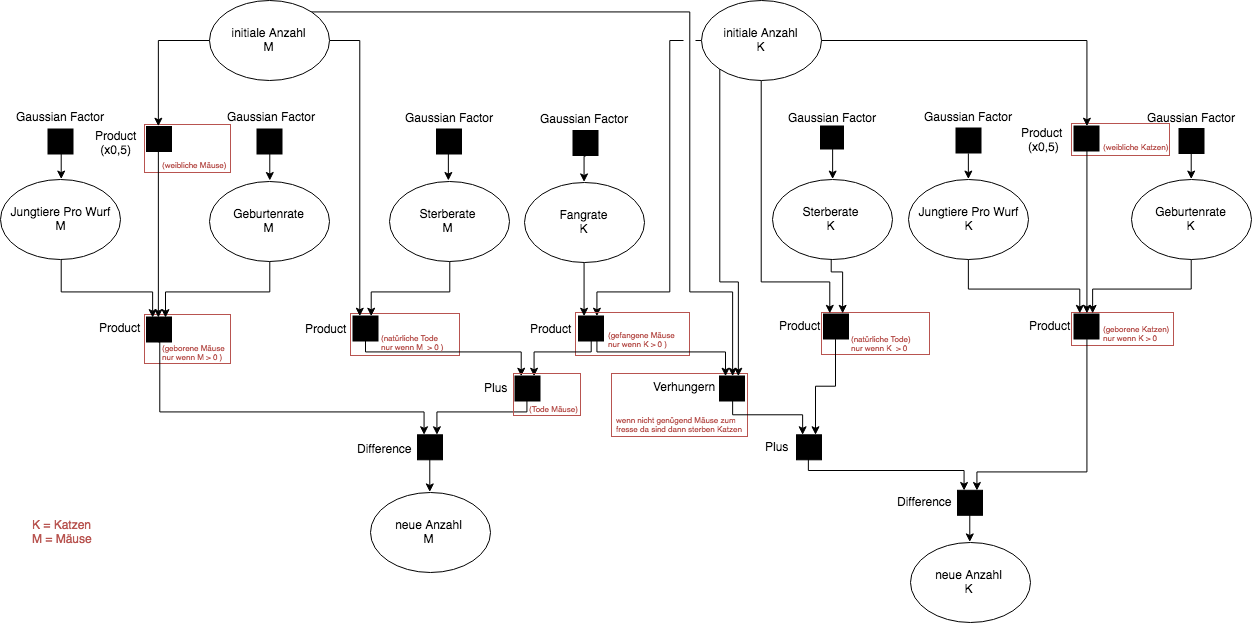
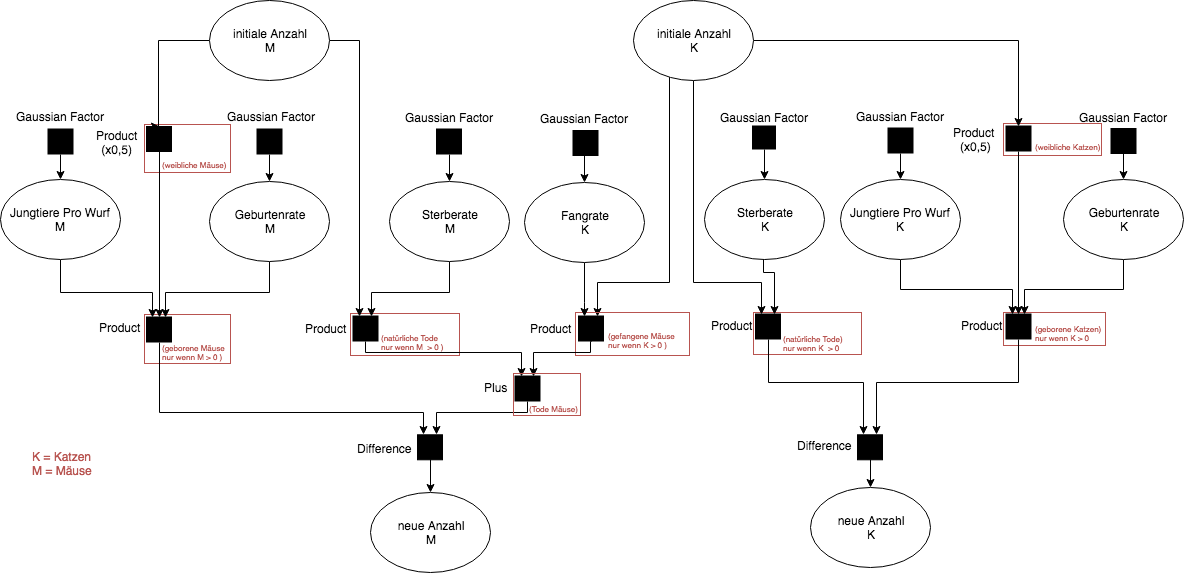
remove starving cats from model

diff --git a/urban_garden_mouse_cats/RunCatAndMouseModel.cs b/urban_garden_mouse_cats/RunCatAndMouseModel.cs
@@ -12,7 +12,7 @@ namespace catandmouse
         {
             // Cat();
             // Mouse();
-            //CatsAndMice();
+            // CatsAndMice();
             ContiniousView();
         }
 
@@ -52,26 +52,17 @@ namespace catandmouse
                 new Gaussian(0.0007305936073, 0.0000000225),
                 2
             );
-            CatModel.CatModelData CatSpecificPriors = new CatModel.CatModelData(
-                new Gaussian(13.5, 30.25),
-                new Gaussian(3.5, 2.25)
-            );
+            Gaussian Catchrate = new Gaussian(13.5, 30.25);
 
             CatModel Cat = new CatModel(new InferenceEngine());
             Cat.CreateModel();
-            Cat.SetModelData(CatPriors, CatSpecificPriors);
+            Cat.SetModelData(CatPriors, Catchrate);
 
             Gaussian CatchableMouse = Cat.InferCatchableMouse();
             Console.WriteLine(
                 "Catchable Mouse Mean: {0:f10}, Standard Deviation: {1:f10}",
                 CatchableMouse.GetMean(),
                 Math.Sqrt(CatchableMouse.GetVariance())
-            );
-            Gaussian FoodNeeds = Cat.InferFoodNeeds();
-            Console.WriteLine(
-                "Cat FoodNeeds Mouse Mean: {0:f10}, Standard Deviation: {1:f10}",
-                FoodNeeds.GetMean(),
-                Math.Sqrt(FoodNeeds.GetVariance())
             );
         }
 
@@ -89,24 +80,19 @@ namespace catandmouse
                 new Gaussian(0.0007305936073, 0.0000000225),
                 10
             );
-            CatModel.CatModelData CatSpecificPriors = new CatModel.CatModelData(
-                new Gaussian(13.5, 30.25),
-                new Gaussian(3.5, 2.25)
-            );
+            Gaussian Catchrate = new Gaussian(13.5, 30.25);
             CatAndMouse Model = new CatAndMouse();
 
             Model.CreateModel();
             Model.SetModelData(
                 MousePriors,
                 CatPriors,
-                CatSpecificPriors
+                Catchrate
             );
 
             Gaussian BornYoung = Model.Mouse.InferBornYoung();
             Gaussian NaturalDeath = Model.Mouse.InferNaturalDeath();
             Gaussian CatchedMouse = Model.InferCatchedMouse();
-            Gaussian StarvingCats = Model.InferStarvingCats();
-            Gaussian DyingCats = Model.InferDyingCats();
             Gaussian DyingMouse = Model.InferDyingMouse();
             Gaussian CatPopulationChange = Model.InferCatPopulationChange();
             Gaussian MousePopulationChange = Model.InferMousePopulationChange();
@@ -131,16 +117,6 @@ namespace catandmouse
                 "CatchedMouse Mean: {0:f2}, Standard Deviation: {1:f2}",
                 CatchedMouse.GetMean(),
                 Math.Sqrt(CatchedMouse.GetVariance())
-            );
-            Console.WriteLine(
-                "StarvingCats Mean: {0:f2}, Standard Deviation: {1:f2}",
-                StarvingCats.GetMean(),
-                Math.Sqrt(StarvingCats.GetVariance())
-            );
-            Console.WriteLine(
-                "DyingCats Mean: {0:f2}, Standard Deviation: {1:f2}",
-                DyingCats.GetMean(),
-                Math.Sqrt(DyingCats.GetVariance())
             );
             Console.WriteLine(
                 "DyingMouse Mean: {0:f2}, Standard Deviation: {1:f2}",
@@ -171,8 +147,8 @@ namespace catandmouse
 
         public static void ContiniousView()
         {
-            double LatestCatPopulation = 100000;
-            double LatestMousePopulation = 100000;
+            double LatestCatPopulation = 5;
+            double LatestMousePopulation = 500;
 
             List<double> CatPopulation = new List<double>();
             List<double> CatPopulationStandardDeviation = new List<double>();
@@ -180,7 +156,7 @@ namespace catandmouse
             List<double> MousePopulation = new List<double>();
             List<double> MousePopulationStandardDeviation = new List<double>();
 
-            for (int i = 0; i < 15; i++)
+            for (int i = 0; i < 20; i++)
             {
                 Variable<double> CurrentCatPopulation = LatestCatPopulation;
                 Variable<double> CurrentMousePopulation = LatestMousePopulation;
@@ -196,17 +172,14 @@ namespace catandmouse
                     new Gaussian(0.0007305936073, 0.0000000225),
                     CurrentCatPopulation
                 );
-                CatModel.CatModelData CatSpecificPriors = new CatModel.CatModelData(
-                    new Gaussian(13.5, 30.25),
-                    new Gaussian(3.5, 2.25)
-                );
+                Gaussian Catchrate = new Gaussian(13.5, 30.25);
                 CatAndMouse Model = new CatAndMouse();
 
                 Model.CreateModel();
                 Model.SetModelData(
                     MousePriors,
                     CatPriors,
-                    CatSpecificPriors
+                    Catchrate
                 );
 
                 CatAndMouse.CatAndMousePopulation NewPopulation = Model.InferPopulation();
@@ -220,7 +193,7 @@ namespace catandmouse
                 MousePopulationStandardDeviation.Add(Math.Sqrt(NewPopulation.MousePopulation.GetVariance()));
             }
 
-            for (int i = 0; i < 15; i++)
+            for (int i = 0; i < 20; i++)
             {
                 Console.WriteLine(
                     "{0:d2} CatPopulation Mean: {1:f2}, Standard Deviation: {2:f2}",

diff --git a/urban_garden_mouse_cats/CatAndMouse.cs b/urban_garden_mouse_cats/CatAndMouse.cs
@@ -29,11 +29,11 @@ namespace catandmouse
         public void SetModelData(
             BaseAnimalModel.AnimalModelData MousePriors,
             BaseAnimalModel.AnimalModelData CatPriors,
-            CatModel.CatModelData CatSpecificPriors
+            Gaussian CatchrateDist
         )
         {
             Mouse.SetModelData(MousePriors);
-            Cat.SetModelData(CatPriors, CatSpecificPriors);
+            Cat.SetModelData(CatPriors, CatchrateDist);
         }
 
         public Gaussian InferCatchedMouse()
@@ -56,35 +56,6 @@ namespace catandmouse
             return engine.Infer<Gaussian>(CatchedMouse);
         }
 
-        public Gaussian InferStarvingCats()
-        {
-            Variable<double> StarvingCats = Variable.New<double>();
-
-            Variable<double> FoodNeeds = Variable.Random<double, Gaussian>(Cat.InferFoodNeeds());
-            Variable<double> CatchedMouse = Variable.Random<double, Gaussian>(InferCatchedMouse());
-            Variable<bool> condition = FoodNeeds > CatchedMouse;
-            Variable<double> FoodNeedDifference = Variable.Random<double, Gaussian>(engine.Infer<Gaussian>(FoodNeeds - CatchedMouse));
-            Variable<double> starving = FoodNeedDifference / FoodNeeds;
-            using (Variable.If(condition))
-            {
-                StarvingCats.SetTo(starving);
-            }
-            using (Variable.IfNot(condition))
-            {
-                StarvingCats.SetTo(0);
-            }
-
-            return engine.Infer<Gaussian>(StarvingCats);
-        }
-
-        public Gaussian InferDyingCats()
-        {
-            Variable<double> Starving = Variable.Random<double, Gaussian>(InferStarvingCats());
-            Variable<double> NaturalDeath = Variable.Random<double, Gaussian>(Cat.InferNaturalDeath());
-
-            return engine.Infer<Gaussian>(Starving + NaturalDeath);
-        }
-
         public Gaussian InferDyingMouse()
         {
             Variable<double> Catched = Variable.Random<double, Gaussian>(InferCatchedMouse());
@@ -95,7 +66,7 @@ namespace catandmouse
 
         public Gaussian InferCatPopulationChange()
         {
-            Variable<double> Deceased = Variable.Random<double, Gaussian>(InferDyingCats());
+            Variable<double> Deceased = Variable.Random<double, Gaussian>(Cat.InferNaturalDeath());
             Variable<double> BornYoung = Variable.Random<double, Gaussian>(Cat.InferBornYoung());
 
             return engine.Infer<Gaussian>(BornYoung - Deceased);

diff --git a/urban_garden_mouse_cats/CatModel.cs b/urban_garden_mouse_cats/CatModel.cs
@@ -20,39 +20,19 @@ namespace catandmouse
             base.CreateModel();
 
             CatchratePrior = Variable.New<Gaussian>();
-            FoodNeedsPrior = Variable.New<Gaussian>();
-
+            
             Catchrate = Variable.Random<double, Gaussian>(CatchratePrior);
-            FoodNeeds = Variable.Random<double, Gaussian>(FoodNeedsPrior);
         }
 
-        public void SetModelData(AnimalModelData Priors, CatModelData CatPriors)
+        public void SetModelData(AnimalModelData Priors, Gaussian CatchrateDist)
         {
             base.SetModelData(Priors);
-            this.CatchratePrior.ObservedValue = CatPriors.CatchrateDist;
-            this.FoodNeedsPrior.ObservedValue = CatPriors.FoodNeeds;
+            this.CatchratePrior.ObservedValue = CatchrateDist;
         }
 
         public Gaussian InferCatchableMouse()
         {
             return engine.Infer<Gaussian>(Catchrate * Population);
-        }
-
-        public Gaussian InferFoodNeeds()
-        {
-            return engine.Infer<Gaussian>(FoodNeeds * Population);
-        }
-
-        public struct CatModelData
-        {
-            public Gaussian CatchrateDist;
-            public Gaussian FoodNeeds;
-
-            public CatModelData(Gaussian CatchrateDist, Gaussian FoodNeeds)
-            {
-                this.CatchrateDist = CatchrateDist;
-                this.FoodNeeds = FoodNeeds;
-            }
         }
     }
 }

diff --git a/urban_garden_mouse_cats/BaseAnimalModel.cs b/urban_garden_mouse_cats/BaseAnimalModel.cs
@@ -8,19 +8,14 @@ namespace catandmouse
     {
         public InferenceEngine engine;
 
-        // set by model data
         public Variable<double> Population;
         public Variable<Gaussian> BornYoungPerLitterPrior;
         public Variable<Gaussian> BirthratePrior;
         public Variable<Gaussian> DeathratePrior;
 
-        // random from prior
         public Variable<double> BornYoungPerLitter;
         public Variable<double> Birthrate;
         public Variable<double> Deathrate;
-        
-        // infered values
-        public double Feminine;
 
         public BaseAnimalModel(InferenceEngine engine){
             this.engine = engine;
